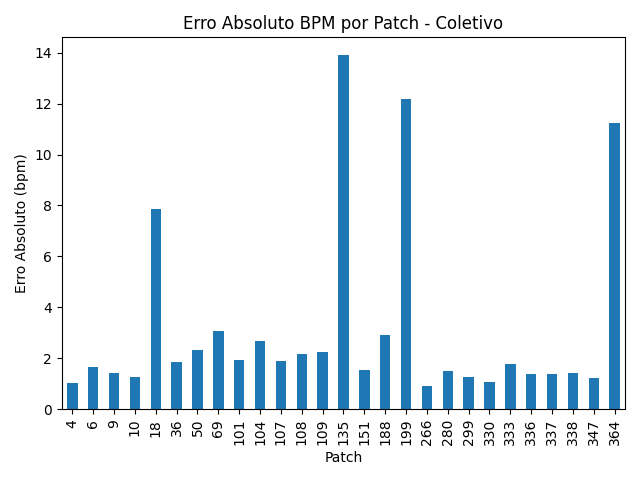
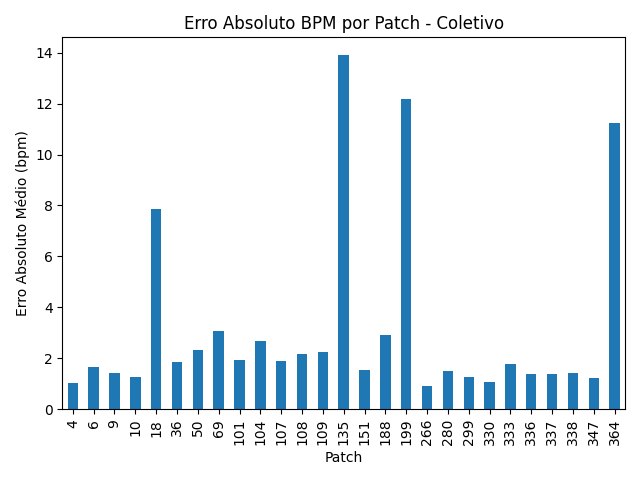
ajuste gráfico

diff --git a/06-01-Resultados/analise_coletiva.py b/06-01-Resultados/analise_coletiva.py
@@ -84,7 +84,7 @@ def generate_collective_plots(df, output_folder):
         plt.scatter(df[col], df['Error_BPM_Abs'], alpha=0.7)
         plt.title(f'Erro BPM vs {col} - Coletivo')
         plt.xlabel(col)
-        plt.ylabel('Erro Absoluto (bpm)')
+        plt.ylabel('Erro Absoluto Médio (bpm)')
         plt.tight_layout()
         plt.savefig(os.path.join(output_folder, f'{col}_vs_Erro_bpm.png'))
         plt.close()
@@ -101,7 +101,7 @@ def generate_collective_plots(df, output_folder):
     plt.figure()
     df.groupby('Metodo')['Error_BPM_Abs'].mean().plot(kind='bar')
     plt.title('Erro Absoluto BPM por Método - Coletivo')
-    plt.ylabel('Erro Absoluto (bpm)')
+    plt.ylabel('Erro Absoluto Médio (bpm)')
     plt.tight_layout()
     plt.savefig(os.path.join(output_folder, 'Erro_por_metodo_bpm.png'))
     plt.close()
@@ -117,7 +117,7 @@ def generate_collective_plots(df, output_folder):
     plt.figure()
     df.groupby('Patch')['Error_BPM_Abs'].mean().plot(kind='bar')
     plt.title('Erro Absoluto BPM por Patch - Coletivo')
-    plt.ylabel('Erro Absoluto (bpm)')
+    plt.ylabel('Erro Absoluto Médio (bpm)')
     plt.tight_layout()
     plt.savefig(os.path.join(output_folder, 'Erro_por_patch_bpm.png'))
     plt.close()
